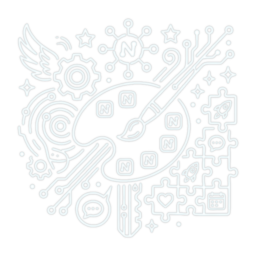
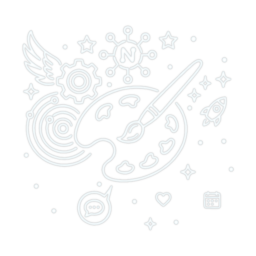
make tile settings much more compact, use nicer illustration for settings item

diff --git a/src/pages/TileSettingsPage.tsx b/src/pages/TileSettingsPage.tsx
@@ -18,6 +18,7 @@ import { useSeoMeta } from '@unhead/react';
 import { useQuery } from '@tanstack/react-query';
 import { useNostr } from '@nostrify/react';
 import {
+  ChevronDown,
   LayoutGrid,
   Loader2,
   Rss,
@@ -214,6 +215,11 @@ export function TileSettingsPage() {
 
   const [drafts, setDrafts] = useState<Record<string, string>>({});
   const [savedIds, setSavedIds] = useState<Record<string, boolean>>({});
+  const [openCards, setOpenCards] = useState<Record<string, boolean>>({});
+
+  const toggleCard = useCallback((identifier: string) => {
+    setOpenCards((prev) => ({ ...prev, [identifier]: !prev[identifier] }));
+  }, []);
 
   const [permissions, setPermissions] = useState<Record<string, PermissionEntry[]>>(
     () => groupPermissions(listScopedPermissions(user?.pubkey ?? null)),
@@ -411,100 +417,126 @@ export function TileSettingsPage() {
 
               return (
                 <Card key={row.identifier} className="overflow-hidden">
-                  <div className="flex items-center gap-3 border-b border-border bg-muted/30 p-3">
-                    <div className="size-10 shrink-0 overflow-hidden rounded-md bg-muted">
-                      {row.image ? (
-                        <img src={row.image} alt="" className="size-full object-cover" loading="lazy"
-                          onError={(e) => { e.currentTarget.style.display = 'none'; }} />
-                      ) : (
-                        <div className="flex size-full items-center justify-center text-muted-foreground">
-                          <LayoutGrid className="size-5" />
-                        </div>
-                      )}
-                    </div>
+                  <div className="flex items-center gap-3 bg-muted/30 p-3">
                     {row.naddr ? (
-                      <Link to={`/tiles/${row.naddr}`} className="flex-1 min-w-0 hover:opacity-75 transition-opacity">
-                        <p className="truncate font-medium text-sm">{row.name}</p>
-                        <p className="truncate text-xs text-muted-foreground font-mono">{row.identifier}</p>
+                      <Link to={`/tiles/${row.naddr}`} className="size-10 shrink-0 overflow-hidden rounded-md bg-muted hover:opacity-75 transition-opacity">
+                        {row.image ? (
+                          <img src={row.image} alt="" className="size-full object-cover" loading="lazy"
+                            onError={(e) => { e.currentTarget.style.display = 'none'; }} />
+                        ) : (
+                          <div className="flex size-full items-center justify-center text-muted-foreground">
+                            <LayoutGrid className="size-5" />
+                          </div>
+                        )}
                       </Link>
                     ) : (
-                      <div className="flex-1 min-w-0">
-                        <p className="truncate font-medium text-sm">{row.name}</p>
-                        <p className="truncate text-xs text-muted-foreground font-mono">{row.identifier}</p>
+                      <div className="size-10 shrink-0 overflow-hidden rounded-md bg-muted">
+                        {row.image ? (
+                          <img src={row.image} alt="" className="size-full object-cover" loading="lazy"
+                            onError={(e) => { e.currentTarget.style.display = 'none'; }} />
+                        ) : (
+                          <div className="flex size-full items-center justify-center text-muted-foreground">
+                            <LayoutGrid className="size-5" />
+                          </div>
+                        )}
                       </div>
                     )}
-                    {row.naddr && (
-                      <Button
-                        variant="ghost" size="sm"
-                        className="text-destructive hover:text-destructive hover:bg-destructive/10"
-                        onClick={() => handleUninstall(row.naddr!, row.identifier, row.name)}
-                      >
-                        <Trash2 className="size-4" />
-                      </Button>
-                    )}
+                    <button
+                      type="button"
+                      className="flex-1 min-w-0 text-left hover:opacity-75 transition-opacity"
+                      onClick={() => toggleCard(row.identifier)}
+                    >
+                      <p className="truncate font-medium text-sm">{row.name}</p>
+                      <p className="truncate text-xs text-muted-foreground font-mono">{row.identifier}</p>
+                    </button>
+                    <Button
+                      variant="ghost" size="sm"
+                      className="text-muted-foreground hover:text-muted-foreground hover:bg-transparent hover:opacity-75 transition-opacity"
+                      onClick={() => toggleCard(row.identifier)}
+                      aria-label={openCards[row.identifier] ? 'Collapse settings' : 'Expand settings'}
+                    >
+                      <ChevronDown
+                        className={`size-4 transition-transform duration-200 ${openCards[row.identifier] ? 'rotate-180' : ''}`}
+                      />
+                    </Button>
                   </div>
 
-                  <CardContent className="p-4 space-y-5">
-                    {/* Feed toggle — only shown when the tile declares include_in_feed */}
-                    {feedCapableIdentifiers.has(row.identifier) && (
-                      <div className="flex items-center justify-between gap-3">
-                        <div className="flex items-center gap-2 min-w-0">
-                          <Rss className="size-4 shrink-0 text-muted-foreground" />
-                          <div className="min-w-0">
-                            <p className="text-sm font-medium leading-none">Show in feed</p>
-                            <p className="text-xs text-muted-foreground mt-0.5">
-                              Display this tile's events in your home feed.
-                            </p>
+                  {openCards[row.identifier] && (
+                    <CardContent className="p-4 space-y-5 border-t border-border">
+                      {/* Feed toggle — only shown when the tile declares include_in_feed */}
+                      {feedCapableIdentifiers.has(row.identifier) && (
+                        <div className="flex items-center justify-between gap-3">
+                          <div className="flex items-center gap-2 min-w-0">
+                            <Rss className="size-4 shrink-0 text-muted-foreground" />
+                            <div className="min-w-0">
+                              <p className="text-sm font-medium leading-none">Show in feed</p>
+                              <p className="text-xs text-muted-foreground mt-0.5">
+                                Display this tile's events in your home feed.
+                              </p>
+                            </div>
                           </div>
+                          <Switch
+                            checked={isFeedEnabled(row.identifier)}
+                            onCheckedChange={(v) => toggleFeed(row.identifier, v)}
+                          />
                         </div>
-                        <Switch
-                          checked={isFeedEnabled(row.identifier)}
-                          onCheckedChange={(v) => toggleFeed(row.identifier, v)}
-                        />
-                      </div>
-                    )}
+                      )}
 
-                    {fields.length > 0 && (
-                      <section className="space-y-3">
-                        <h3 className="text-xs font-semibold uppercase tracking-wider text-muted-foreground">Settings</h3>
-                        <div className="space-y-3">
-                          {fields.map((field) => (
-                            <TileSettingInput
-                              key={field.key}
-                              field={field}
-                              value={draftValue(row.identifier, field)}
-                              onChange={(v) => setDraft(row.identifier, field.key, v)}
-                            />
-                          ))}
-                        </div>
-                        <div className="flex justify-end">
-                          <Button size="sm" onClick={() => saveTile(row.identifier, fields)} disabled={!runtime || saved}>
-                            {saved ? 'Saved' : 'Save'}
+                      {fields.length > 0 && (
+                        <section className="space-y-3">
+                          <h3 className="text-xs font-semibold uppercase tracking-wider text-muted-foreground">Settings</h3>
+                          <div className="space-y-3">
+                            {fields.map((field) => (
+                              <TileSettingInput
+                                key={field.key}
+                                field={field}
+                                value={draftValue(row.identifier, field)}
+                                onChange={(v) => setDraft(row.identifier, field.key, v)}
+                              />
+                            ))}
+                          </div>
+                          <div className="flex justify-end">
+                            <Button size="sm" onClick={() => saveTile(row.identifier, fields)} disabled={!runtime || saved}>
+                              {saved ? 'Saved' : 'Save'}
+                            </Button>
+                          </div>
+                        </section>
+                      )}
+
+                      {perms.length > 0 && (
+                        <section className="space-y-2">
+                          <h3 className="text-xs font-semibold uppercase tracking-wider text-muted-foreground">Permissions</h3>
+                          <ul className="space-y-1">
+                            {perms.map((p) => (
+                              <PermissionRow
+                                key={p.capability}
+                                capability={p.capability}
+                                decision={p.decision}
+                                onRevoke={() => handleRevoke(row.identifier, p.capability)}
+                              />
+                            ))}
+                          </ul>
+                        </section>
+                      )}
+
+                      {!feedCapableIdentifiers.has(row.identifier) && fields.length === 0 && perms.length === 0 && (
+                        <p className="text-sm text-muted-foreground">This tile has no settings or permissions yet.</p>
+                      )}
+
+                      {row.naddr && (
+                        <div className="pt-2 border-t border-border flex justify-end">
+                          <Button
+                            variant="ghost" size="sm"
+                            className="text-destructive hover:text-destructive hover:bg-transparent hover:opacity-75 gap-1.5"
+                            onClick={() => handleUninstall(row.naddr!, row.identifier, row.name)}
+                          >
+                            <Trash2 className="size-4" />
+                            Uninstall
                           </Button>
                         </div>
-                      </section>
-                    )}
-
-                    {perms.length > 0 && (
-                      <section className="space-y-2">
-                        <h3 className="text-xs font-semibold uppercase tracking-wider text-muted-foreground">Permissions</h3>
-                        <ul className="space-y-1">
-                          {perms.map((p) => (
-                            <PermissionRow
-                              key={p.capability}
-                              capability={p.capability}
-                              decision={p.decision}
-                              onRevoke={() => handleRevoke(row.identifier, p.capability)}
-                            />
-                          ))}
-                        </ul>
-                      </section>
-                    )}
-
-                    {!feedCapableIdentifiers.has(row.identifier) && fields.length === 0 && perms.length === 0 && (
-                      <p className="text-sm text-muted-foreground">This tile has no settings or permissions yet.</p>
-                    )}
-                  </CardContent>
+                      )}
+                    </CardContent>
+                  )}
                 </Card>
               );
             })
